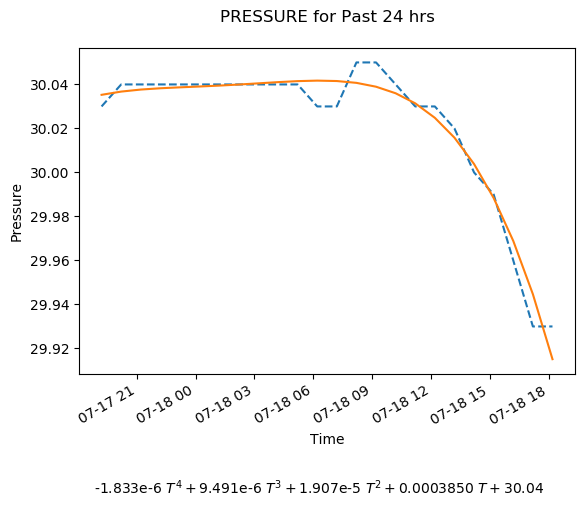
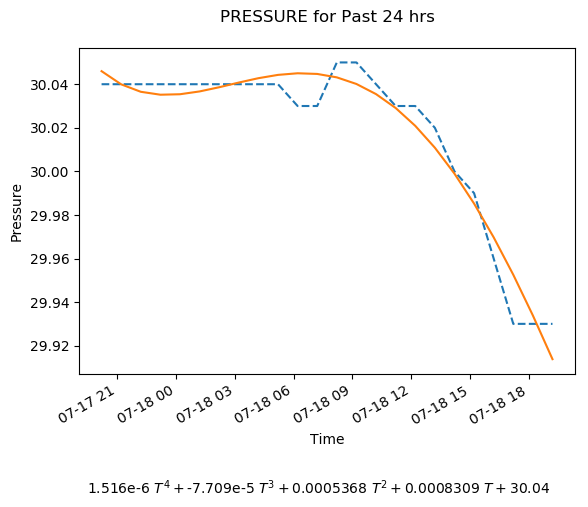
ff

diff --git a/NET/weather.html b/NET/weather.html
@@ -79,14 +79,14 @@ if (i<10)
 <h1><em><font color="darkblue">Weather at Carbondale</font></em></h1>
 <div id="txt"></div>
 <center class="big">Temperature: 
-91.4 
+87.8 
 °
 </center>
 <table><tr>
 <td align="left" class="x">
-<i>Current Weather: </i><img height="0" width="50"><b>Fair</b>
+<i>Current Weather: </i><img height="0" width="50"><b>Mostly Cloudy</b>
 </td>
-<td><img src="WeathIcons/skc.jpg"></td>
+<td><img src="WeathIcons/"></td>
 </tr></table>
 <table style="margin-left: auto;margin-top: 5%;margin-right:auto">
 <tr>
@@ -94,21 +94,21 @@ if (i<10)
 <tr><td align="left" class="big">Date: 
 &#160;Jul 18</td></tr>
 <tr><td align="left" class="big">Time: 
-&#160;18:08:01</td></tr>
+&#160;19:08:02</td></tr>
 <tr><td align="left" class="big">Wind: 
 &#160;calm</td></tr>
 <tr><td align="left" class="big">Visibility: 
 &#160;</td></tr>
 <tr><td align="left" class="big">Temperature: 
-&#160;91.4 F.</td></tr>
+&#160;87.8 F.</td></tr>
 <tr><td align="left" class="big">Dewpoint: 
-&#160;73.4 F.</td></tr>
+&#160;75.2 F.</td></tr>
 <tr><td align="left" class="big">Relative Humidity: 
-&#160;56%</td></tr>
+&#160;66%</td></tr>
 <tr><td align="left" class="big">Pressure: 
 &#160;29.93 inches</td></tr>
 <tr><td align="left" class="big">Heat Index: 
-&#160;100</td></tr>
+&#160;98</td></tr>
 <tr><td align="left" class="big">Wind Chill: 
 &#160;</td></tr>
 <tr><td align="left" class="big">Sunrise: 
@@ -119,10 +119,10 @@ if (i<10)
 <td align="left" class="big">
 <b>Twenty-Four Hour Summary</b><p></p>
 <dl>
-<dt align="center">Temperature: μ = 82.92, 
-σ = 5.55</dt>
+<dt align="center">Temperature: μ = 83.07, 
+σ = 5.63</dt>
 <p></p>
-<dt align="center">Pressure: μ = 30.02,
+<dt align="center">Pressure: μ = 30.01,
 σ = 0.03</dt>
 </dl>
 </td>

diff --git a/NET/DewPoint.html b/NET/DewPoint.html
@@ -39,7 +39,7 @@ black;width:35%;margin-left:auto;margin-right:auto;margin-bottom:5em
 
 <h2>Current</h2>
 
-<div id='c'><strong>Temp</strong> 91.4 F. <strong>Dew Point</strong> 73.4 F.</div>
+<div id='c'><strong>Temp</strong> 87.8 F. <strong>Dew Point</strong> 75.2 F.</div>
 
 
 <p><p/><br/><p/></p>
@@ -5197,6 +5197,11 @@ black;width:35%;margin-left:auto;margin-right:auto;margin-bottom:5em
 <td style="text-align:center;"> Sat Jul 18 18:08:04 2026 </td>
 <td style="text-align:center;"> 91.4 F. </td>
 <td style="text-align:center;"> 73.4 F.</td>
+</tr>
+<tr>
+<td style="text-align:center;"> Sat Jul 18 19:08:05 2026 </td>
+<td style="text-align:center;"> 87.8 F. </td>
+<td style="text-align:center;"> 75.2 F.</td>
 </tr>
 </tbody>
 </table>

diff --git a/NET/forecast.html b/NET/forecast.html
@@ -21,7 +21,7 @@
 <i> National Weather Service <br> Paducah, Kentucky</i>
 </center>
 <br><center>
-437 PM CDT Sat Jul 18  2026
+618 PM CDT Sat Jul 18  2026
 </center>
 
 		<entry><p></p>

diff --git a/NET/DewPoint.md b/NET/DewPoint.md
@@ -25,7 +25,7 @@ black;width:35%;margin-left:auto;margin-right:auto;margin-bottom:5em
 <p/><br/><p/>
 
 ## Current
-<div id='c'><strong>Temp</strong> 91.4 F. <strong>Dew Point</strong> 73.4 F.</div>
+<div id='c'><strong>Temp</strong> 87.8 F. <strong>Dew Point</strong> 75.2 F.</div>
 
 <p/><br/><p/>
 
@@ -1064,3 +1064,4 @@ black;width:35%;margin-left:auto;margin-right:auto;margin-bottom:5em
 | Sat Jul 18 16:08:05 2026 | 91.4 F. | 75.2 F.|
 | Sat Jul 18 17:08:04 2026 | 91.4 F. | 73.4 F.|
 | Sat Jul 18 18:08:04 2026 | 91.4 F. | 73.4 F.|
+| Sat Jul 18 19:08:05 2026 | 87.8 F. | 75.2 F.|